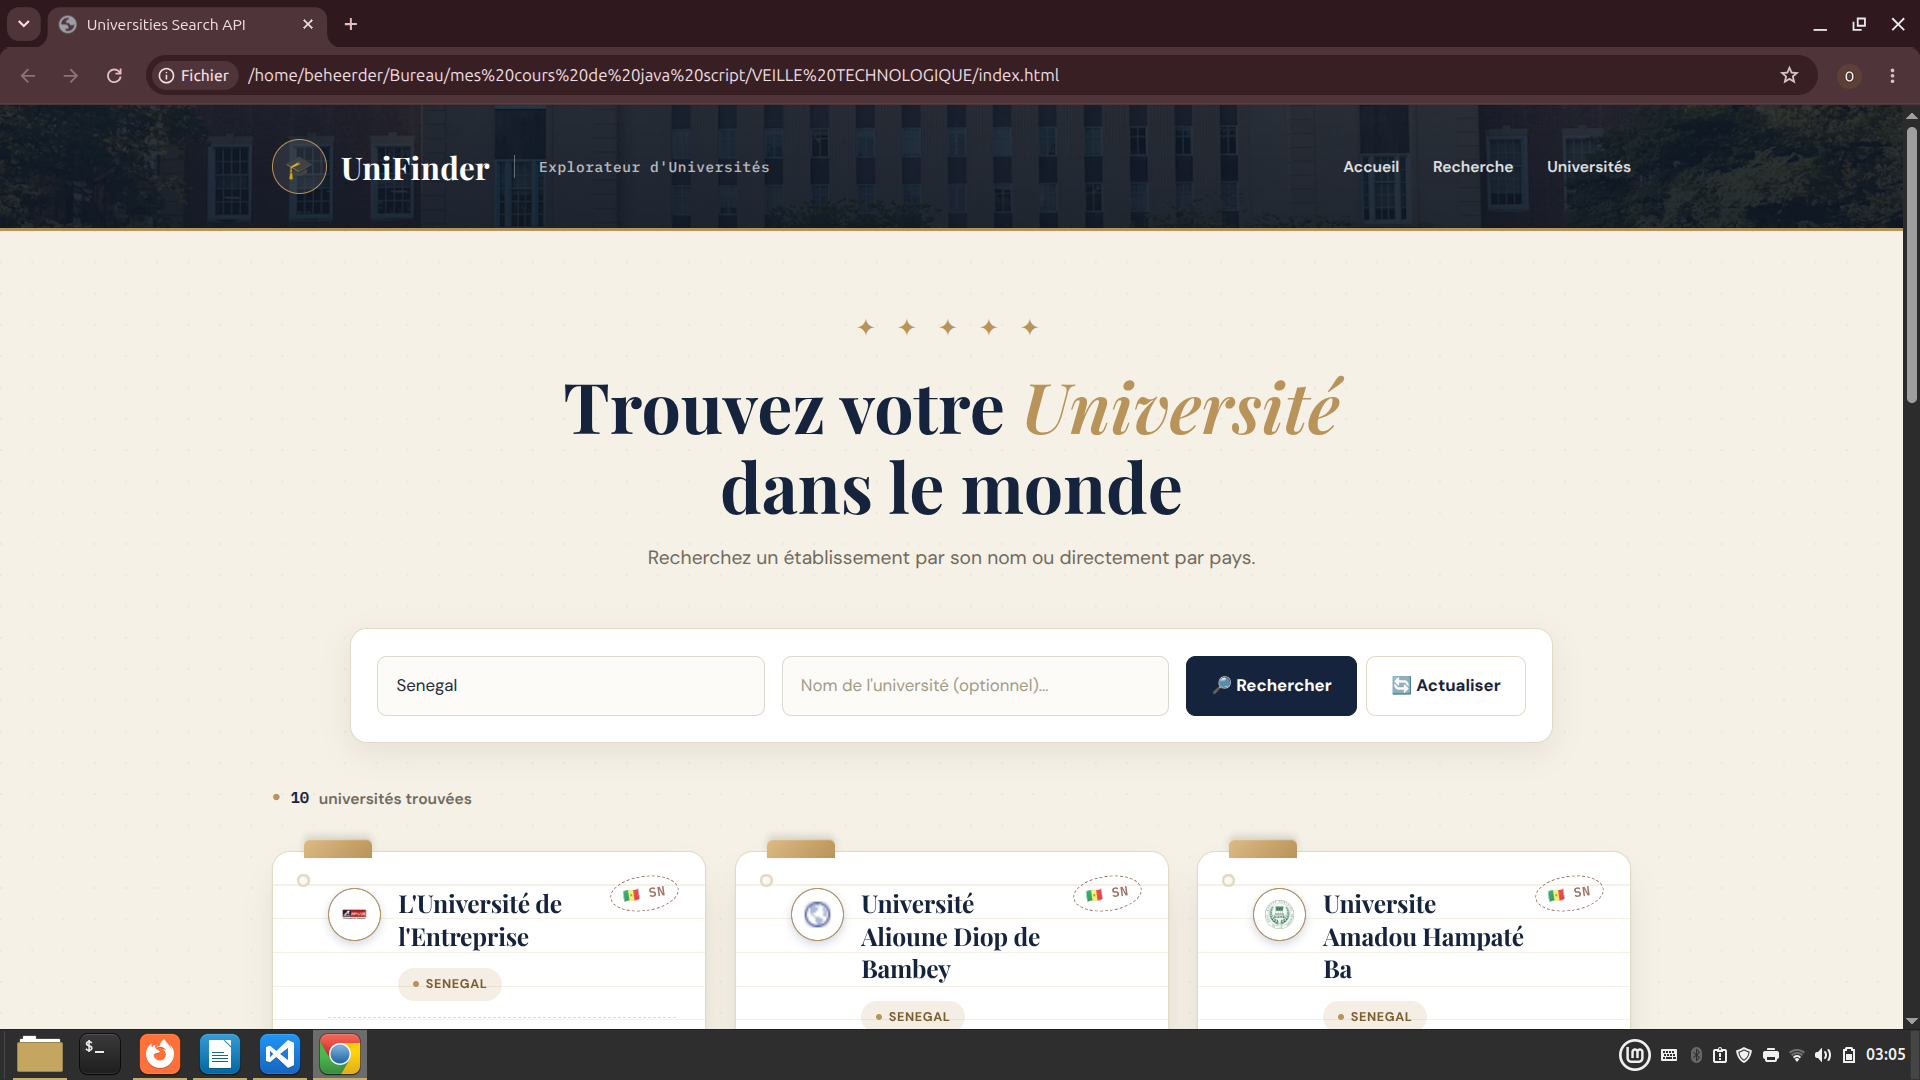
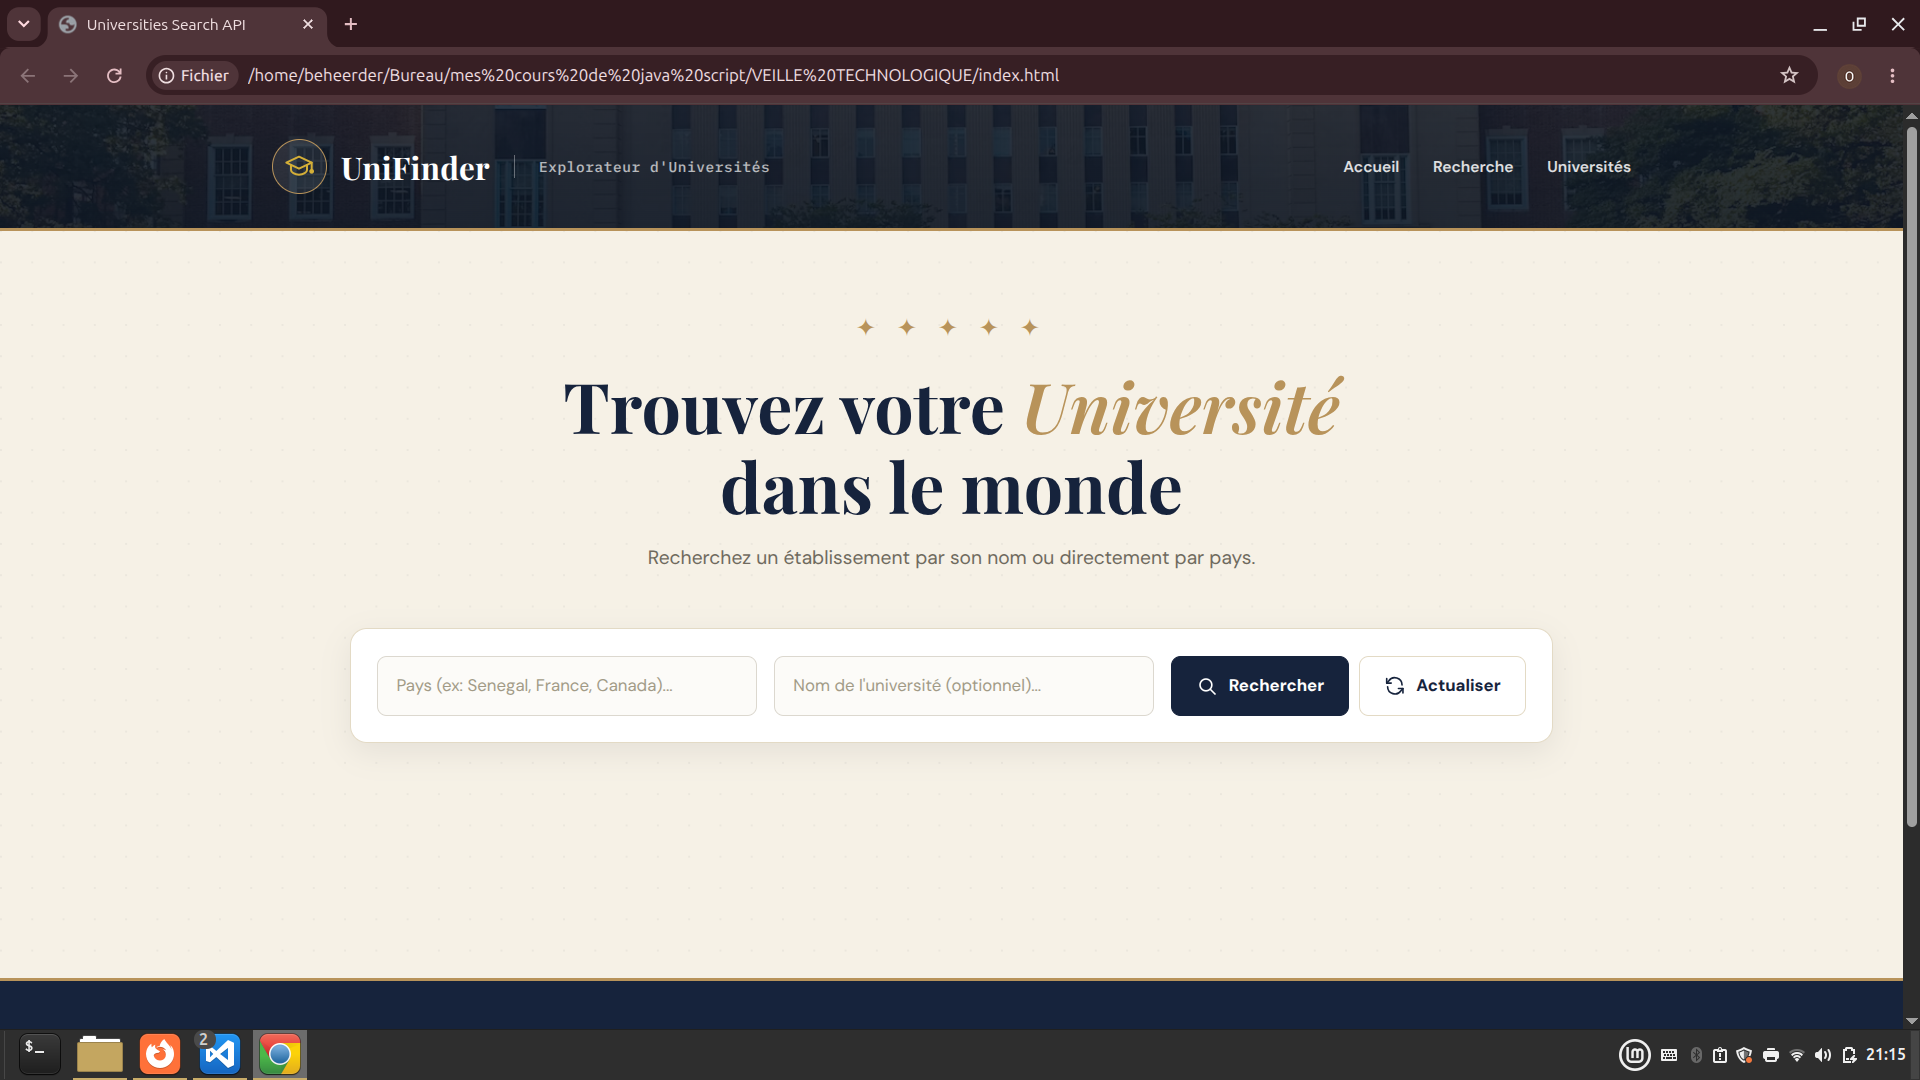
Ajout de l'application UniFinder

diff --git a/README.md b/README.md
@@ -55,7 +55,7 @@
 ```
 unifinder/
 ├── index.html      # Structure de la page
-├── unifind.css      # Styles (thème catalogue de bibliothèque)
+├── style.css      # Styles (thème catalogue de bibliothèque)
 ├── veille.js         # Logique JavaScript (fetch, filtrage, pagination, rendu)
 └── screenshots/       # Captures d'écran 
 ```
